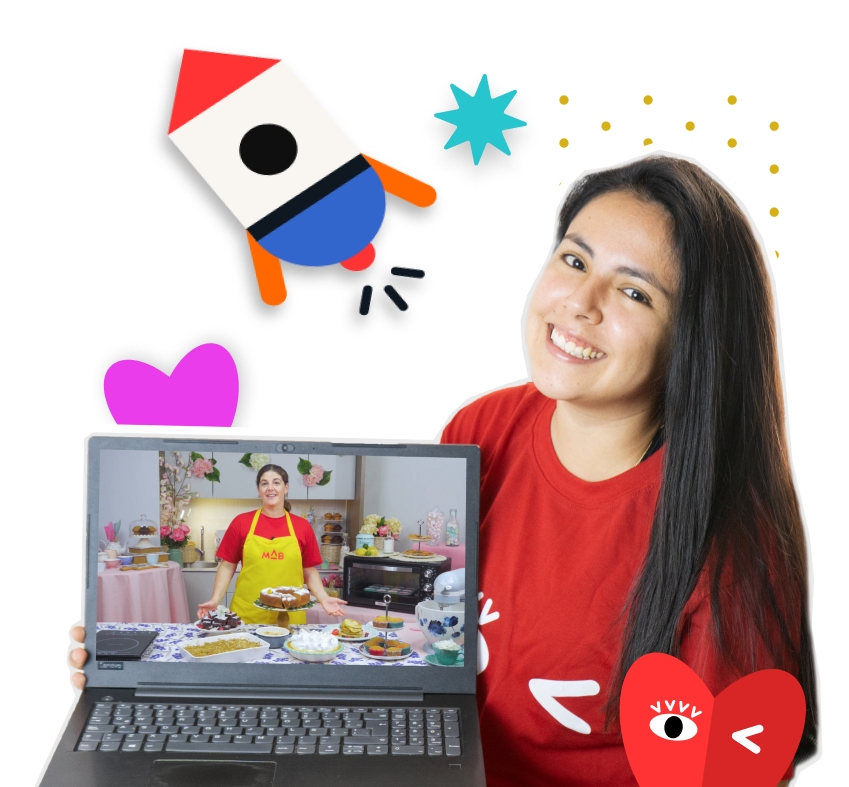
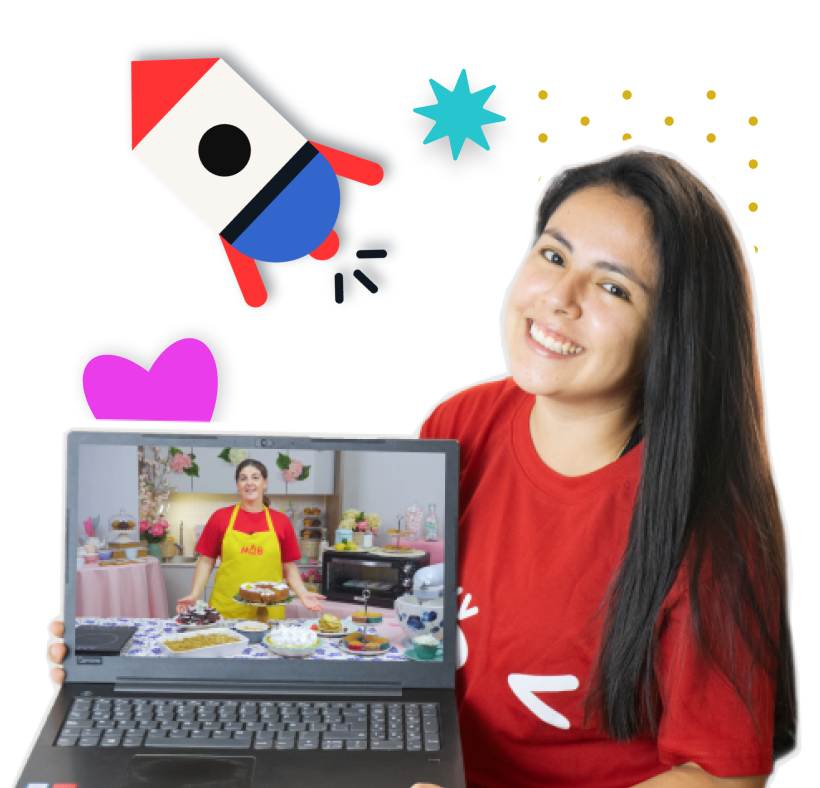
cambios

diff --git a/src/scss/pages/_mab-course.scss b/src/scss/pages/_mab-course.scss
@@ -4,6 +4,13 @@
       font-size: 40px;
       line-height: 30px;
     }
+
+    .course-bg-figure {
+      background: url(../images/vectors/bg-course.png);
+      background-size: 100% auto;
+      background-position: top center;
+      background-repeat: no-repeat;
+    }
   }
 
   .c-icon-course {

diff --git a/src/scss/pages/_test.scss b/src/scss/pages/_test.scss
@@ -138,8 +138,10 @@
       }
 
       &__figure {
-        width: 35%;
-        top: -12rem;
+        // width: 35%;
+        // top: -12rem;
+        width: 30%;
+        top: -10rem;
         right: -7rem;
       }
     }

diff --git a/src/scss/base/_base.scss b/src/scss/base/_base.scss
@@ -344,6 +344,10 @@ body {
   color: $cyan;
 }
 
+.img-shadow {
+  filter: drop-shadow(0 10px 20px rgba(0, 0, 0, 0.5));
+}
+
 @include breakpoint(large) {
   .desktop {
     display: block;

diff --git a/src/scss/pages/perfil.scss b/src/scss/pages/perfil.scss
@@ -104,7 +104,7 @@
       }
 
       .color-box {
-        border-radius: 12px;
+        border-radius: 7px;
         width: 30px;
       }
 

diff --git a/src/scss/components/_corner-card-image.scss b/src/scss/components/_corner-card-image.scss
@@ -4,7 +4,7 @@
   bottom: -25px;
 
   img {
-    border-radius: 50%;
+    // border-radius: 50%;
   }
 }
 
